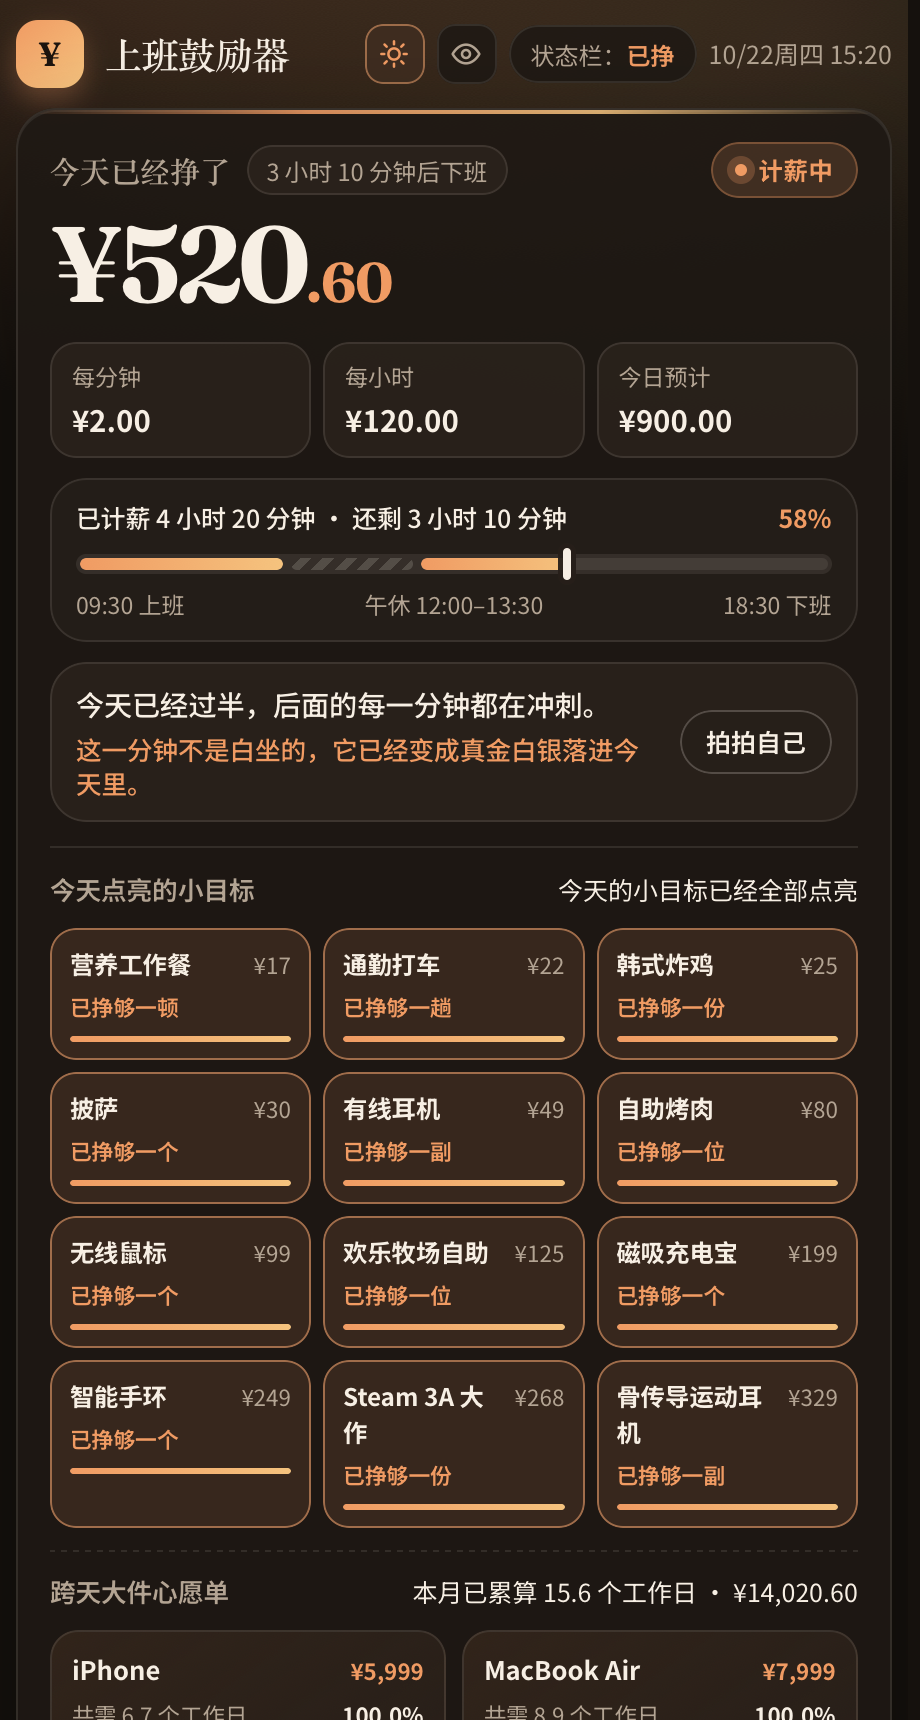
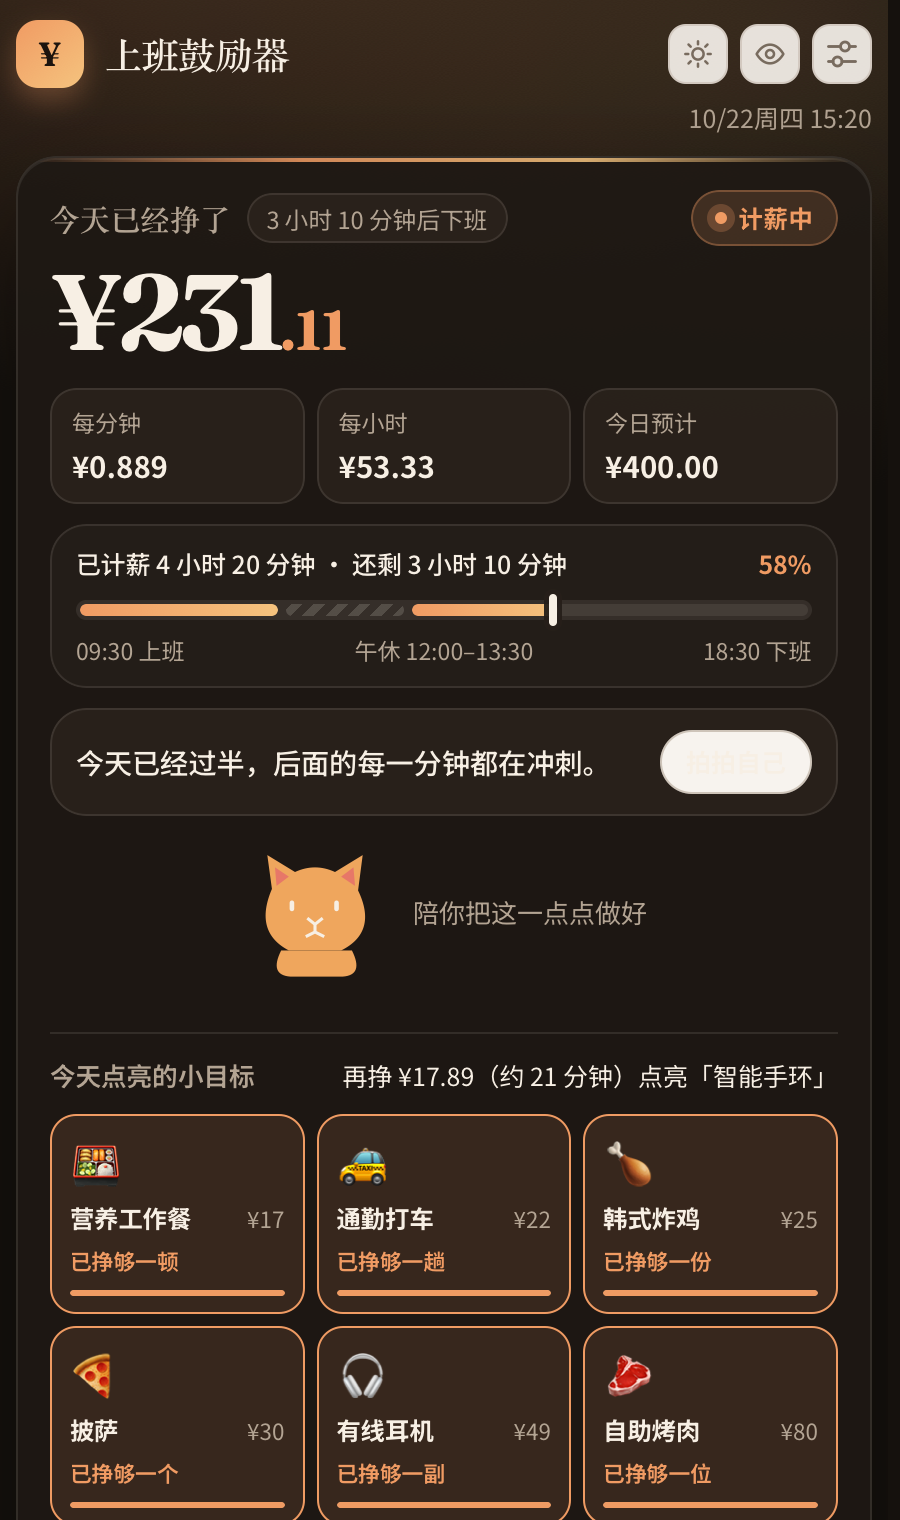
docs: publish 1.3.0 release notes and refresh GitHub Pages

diff --git a/docs/index.html b/docs/index.html
@@ -5,7 +5,7 @@
     <meta name="viewport" content="width=device-width, initial-scale=1, viewport-fit=cover" />
     <meta
       name="description"
-      content="上班鼓励器（Work Encourager）——常驻 macOS 顶部状态栏的实时计薪与目标激励工具，把每个工作日的每一分钟折算成看得见的进账。"
+      content="上班鼓励器 v1.3.0：macOS 实时计薪、个性化目标、调休日历、提醒中心与迷你悬浮窗。支持 Apple Silicon 和 Intel，个人数据保存在本机。"
     />
     <title>上班鼓励器 · Work Encourager — macOS 顶部状态栏实时计薪与目标激励工具</title>
     <link rel="icon" href="./assets/icon.png" />
@@ -721,6 +721,14 @@
           grid-template-columns: 1fr;
         }
       }
+      .release-note-link { margin:18px 0 0; color:var(--muted); font-size:.84rem; }
+      .release-note-link a { text-decoration:underline; text-underline-offset:4px; }
+      .settings-showcase { align-items:center; }
+      .settings-showcase h2 { font-family:Fraunces,"Songti SC",serif; font-size:clamp(1.4rem,3vw,2rem); line-height:1.35; }
+      .settings-showcase .settings-footnote, .panel .settings-footnote { margin-top:18px; font-size:.83rem; }
+      .settings-image-link { display:block; max-width:360px; width:100%; margin:auto; }
+      .settings-image-link img { display:block; width:100%; border:1px solid var(--line-strong); border-radius:22px; box-shadow:var(--shadow); }
+      @media(prefers-reduced-motion:reduce) { html {scroll-behavior:auto;} .btn {transition:none;} }
     </style>
   </head>
   <body>
@@ -732,7 +740,7 @@
         </a>
         <nav class="nav-links">
           <a href="#gallery">界面预览</a>
-          <a href="#features">核心特性</a>
+          <a href="#features">1.3.0 新功能</a>
           <a href="#formula">计薪逻辑</a>
           <a href="#install">安装与构建</a>
         </nav>
@@ -742,7 +750,7 @@
           </button>
           <a
             class="btn btn-primary btn-sm"
-            href="https://github.com/caseclose/work-encourager-open/releases/latest/download/WorkEncourager-macOS-universal-v1.0.0.dmg"
+            href="https://github.com/caseclose/work-encourager-open/releases/download/v1.3.0/WorkEncourager-macOS-universal-v1.3.0.dmg"
           >
             下载 .dmg
           </a>
@@ -750,7 +758,7 @@
       </div>
       <nav class="mobile-subnav" aria-label="章节导航">
         <a href="#gallery">界面预览</a>
-        <a href="#features">核心特性</a>
+        <a href="#features">新功能</a>
         <a href="#formula">计薪逻辑</a>
         <a href="#install">安装指南</a>
       </nav>
@@ -758,22 +766,22 @@
 
     <main class="container">
       <section class="hero">
-        <span class="badge">v1.0.0 · 原生 macOS 状态栏应用 · Apple Silicon &amp; Intel</span>
+        <span class="badge">v1.3.0 · macOS 13+ · Apple Silicon &amp; Intel</span>
         <h1>把漫长的工作日，拆成每一分钟看得见的进账。</h1>
         <p class="hero-sub">
-          上班鼓励器（Work Encourager）是一款常驻 Mac 屏幕顶部菜单栏的轻量级计薪与目标激励工具。支持扣除午休与晚饭时段、12
-          宫格日常消费折算、跨天大件心愿单，以及专为办公室工位打造的三层薪资隐私保护。
+          上班鼓励器（Work Encourager）把工时变成实时进账，也把努力变成自己的小目标。
+          1.3.0 新增目标封面与排序、调休日历、提醒中心和迷你悬浮窗；所有偏好，都能在设置里调整。
         </p>
         <div class="hero-ctas">
           <a
             class="btn btn-primary"
-            href="https://github.com/caseclose/work-encourager-open/releases/latest/download/WorkEncourager-macOS-universal-v1.0.0.dmg"
+            href="https://github.com/caseclose/work-encourager-open/releases/download/v1.3.0/WorkEncourager-macOS-universal-v1.3.0.dmg"
           >
             下载 macOS 安装包 (.dmg)
           </a>
           <a
             class="btn"
-            href="https://github.com/caseclose/work-encourager-open/releases/latest/download/WorkEncourager-macOS-universal-v1.0.0.zip"
+            href="https://github.com/caseclose/work-encourager-open/releases/download/v1.3.0/WorkEncourager-macOS-universal-v1.3.0.zip"
           >
             下载压缩包 (.zip)
           </a>
@@ -782,6 +790,7 @@
           </a>
         </div>
 
+        <p class="release-note-link"><a href="https://github.com/caseclose/work-encourager-open/releases/tag/v1.3.0">查看 1.3.0 完整更新说明 ↗</a> · <a href="https://github.com/caseclose/work-encourager-open/releases/download/v1.3.0/SHA256SUMS.txt">下载校验文件</a></p>
         <div class="menubar-demo" aria-label="macOS 顶部状态栏效果演示">
           <div class="mac-topbar">
             <div class="mac-left">
@@ -808,6 +817,11 @@
               <button type="button" class="mode-tab" data-text="已挣 ¥520.60" aria-selected="true">已挣模式</button>
               <button type="button" class="mode-tab" data-text="剩余 ¥379.40" aria-selected="false">剩余模式</button>
               <button type="button" class="mode-tab" data-text="¥520.60" aria-selected="false">仅金额</button>
+              <button type="button" class="mode-tab" data-text="1时20分下班" aria-selected="false">下班倒计时</button>
+              <button type="button" class="mode-tab" data-text="今日 68%" aria-selected="false">今日进度</button>
+              <button type="button" class="mode-tab" data-text="🎧 耳机 72%" aria-selected="false">目标进度</button>
+              <button type="button" class="mode-tab" data-text="🎧 还需46分" aria-selected="false">目标所需工时</button>
+              <button type="button" class="mode-tab" data-text="午休中" aria-selected="false">随状态切换</button>
               <button type="button" class="mode-tab" data-text="已挣 ¥***" aria-selected="false">小眼睛隐私打码</button>
             </div>
           </div>
@@ -817,7 +831,7 @@
       <section id="gallery">
         <div class="section-head">
           <h2>实机渲染预览</h2>
-          <p>支持深色模式、浅色模式与一键全局隐私打码，点击菜单栏图标即可呼出完整面板。</p>
+          <p>以下为 1.3.0 的真实渲染截图，使用虚拟演示薪资与固定时间；支持深色、浅色和金额打码。</p>
         </div>
         <div class="gallery-tabs" role="tablist" aria-label="切换预览截图">
           <button type="button" class="gallery-tab" data-shot="0" aria-selected="true">深色模式</button>
@@ -850,41 +864,23 @@
       </section>
 
       <section id="features">
-        <div class="section-head">
-          <h2>为打工人设计的细节</h2>
-          <p>零第三方依赖、安装包仅 1 MB，兼顾情绪价值与工位隐私。</p>
-        </div>
+        <div class="section-head"><h2>1.3.0，新功能都在设置里</h2><p>从自己的小目标，到每天的工作节奏，让鼓励器更贴近你的习惯。</p></div>
         <div class="features">
-          <div class="feat">
-            <span class="feat-tag">macOS Native</span>
-            <h3>常驻顶部状态栏</h3>
-            <p>基于 Swift + AppKit + WebKit 原生构建，不占程序坞（Dock）位置，后台每秒刷新状态栏标题。</p>
-          </div>
-          <div class="feat">
-            <span class="feat-tag">Timeline</span>
-            <h3>扣除午休与晚饭时段</h3>
-            <p>支持分别配置午休与晚饭起止时间。休息期间金额自动停表，全天分段时间轴一目了然。</p>
-          </div>
-          <div class="feat">
-            <span class="feat-tag">12 Milestones</span>
-            <h3>12 宫格日常消费折算</h3>
-            <p>把抽象工时折算成工作餐、通勤打车、韩式炸鸡、披萨、有线耳机、自助烤肉、智能手环、Steam 3A 大作与骨传导耳机。</p>
-          </div>
-          <div class="feat">
-            <span class="feat-tag">Big Wishlist</span>
-            <h3>跨天大件心愿单</h3>
-            <p>结合本月已累算工作日与今日实时进账，动态折算 iPhone、MacBook Air 等大件共需几天、还差几天。</p>
-          </div>
-          <div class="feat">
-            <span class="feat-tag">3-Layer Privacy</span>
-            <h3>三层工位隐私保护</h3>
-            <p>班表默认折叠隐藏薪资 + 右上角小眼睛一键全局打码 + 100% 纯本机存储，绝不上传任何数据。</p>
-          </div>
-          <div class="feat">
-            <span class="feat-tag">Micro Cheer</span>
-            <h3>「拍拍自己」即时打气</h3>
-            <p>自动提示距离午休、晚饭或下班还有多久；点一下「拍拍自己」切换暖心文案并浮现每分钟进账反馈。</p>
-          </div>
+          <article class="feat"><span class="feat-tag">Personal Goals</span><h3>每个目标，都有自己的样子</h3><p>添加、修改或删除目标，为它选择 Emoji、颜色与本地图片封面。置顶、拖拽或上下移动，按你的顺序展示。</p></article>
+          <article class="feat"><span class="feat-tag">Celebration</span><h3>点亮目标，轻轻庆祝</h3><p>轻量动画、系统通知或静默，随你选择。每日小目标与每月心愿分别去重，重新打开不会重复庆祝。</p></article>
+          <article class="feat"><span class="feat-tag">Calendar</span><h3>班表也能灵活调整</h3><p>按日期手动标记放假、补班、提前下班与当天休息时段。计薪、倒计时、时间轴随当天安排一起变化。</p></article>
+          <article class="feat"><span class="feat-tag">Menu Bar</span><h3>菜单栏，八种显示方式</h3><p>收入、剩余金额、下班倒计时、今日进度、目标进度与所需工时，还能随工作状态自动切换。</p></article>
+          <article class="feat"><span class="feat-tag">Reminders</span><h3>到点休息，也记得下班</h3><p>午休、晚饭、下班与定时活动提醒集中管理。设置允许提醒时间和跨午夜免打扰，通知不显示薪资金额。</p></article>
+          <article class="feat"><span class="feat-tag">Mini Window</span><h3>把小小进度放在手边</h3><p>可拖动的原生迷你悬浮窗，支持置顶和透明度调整。显示收入、下班倒计时或置顶目标的进度。</p></article>
+          <article class="feat"><span class="feat-tag">Native Comfort</span><h3>更顺手的原生操作</h3><p>开机自动启动、⌘⇧E / ⌃⌥E 全局快捷键、记住上次页面，以及手动检查 GitHub 正式版本。</p></article>
+          <article class="feat"><span class="feat-tag">Local Backup</span><h3>你的设置，随时带走</h3><p>完整 JSON 备份保留薪资、班表与偏好；仅目标备份不含薪资。导入先检查、再确认替换。</p></article>
+          <article class="feat"><span class="feat-tag">Companion</span><h3>橘猫和小芽，陪你一会儿</h3><p>可选动态伙伴，随着工作、休息、下班改变状态。点一下，给自己一句鼓励；也可以随时关闭。</p></article>
+        </div>
+      </section>
+      <section id="settings-preview">
+        <div class="split settings-showcase">
+          <div class="panel"><span class="feat-tag">One Settings Page</span><h2>把想调整的，都放在同一个地方。</h2><p>点击面板右上角的滑杆图标，进入设置。主题、隐私、目标、日历、提醒、悬浮窗、启动方式与备份都有清晰的分组。</p><ul class="steps"><li>保留深色、浅色、跟随系统与一键金额打码。</li><li>目标和单日班表点击保存生效，其余偏好即时保存。</li><li>原有设置继续保留，无需重新填写薪资和目标。</li><li>“关于”包含版本、项目链接和贡献者 Feng Wang · @caseclose。</li></ul><p class="settings-footnote">通知、开机启动和快捷键按需开启；系统权限以 macOS 实际授权状态为准。网页中不可用的原生选项会禁用。</p><a class="btn" href="https://github.com/caseclose/work-encourager-open/releases/tag/v1.3.0">阅读更新说明 ↗</a></div>
+          <a class="settings-image-link" href="./assets/preview-settings.png" aria-label="查看 1.3.0 设置页完整截图"><img src="./assets/preview-settings.png" alt="1.3.0 原生设置页：悬浮窗、陪伴伙伴、开机启动和快捷键" loading="lazy" /></a>
         </div>
       </section>
 
@@ -892,27 +888,26 @@
         <div class="split">
           <div class="panel">
             <h3>透明的计薪与折算逻辑</h3>
-            <p>只按你真正付出的计薪时间拆解每一分钟的价值，休息时间不稀释单价，但休息期间暂停累加：</p>
+            <p>按你设置的班表估算进度，午休、晚饭期间暂停累加。单日临时班表仍按固定日薪折算，短班改变当天计薪速度：</p>
             <pre><code>每天计薪分钟 = (下班 − 上班) − 午休时长 − 晚饭时长
 每日预计收入 = 月薪 ÷ 每月工作日
 每分钟收入   = 每日预计收入 ÷ 每天计薪分钟
-今天已挣金额 = 每分钟收入 × 今天已计薪分钟（精确到秒）</code></pre>
+今天已挣金额 = 每分钟收入 × 今天已计薪分钟（精确到秒）</code></pre><p class="settings-footnote">大件心愿是本月收入的等价进度，并非实际储蓄余额。个人薪资、班表、目标与封面保存在本机；手动检查更新仅请求 GitHub 版本信息。</p>
           </div>
 
           <div class="panel" id="install">
             <h3>安装与源码构建</h3>
             <ol class="steps">
               <li>
-                <strong>免编译直接安装</strong>：下载
+                <strong>macOS 13 或更新版本</strong>：Apple Silicon 与 Intel 共用一个安装包。下载
                 <a
-                  href="https://github.com/caseclose/work-encourager-open/releases/latest/download/WorkEncourager-macOS-universal-v1.0.0.dmg"
+                  href="https://github.com/caseclose/work-encourager-open/releases/download/v1.3.0/WorkEncourager-macOS-universal-v1.3.0.dmg"
                   style="color: var(--accent); font-weight: 600"
                   >Universal .dmg 安装包</a
                 >，将 <code>上班鼓励器.app</code> 拖入 <code>Applications</code>。
               </li>
               <li>
-                <strong>首次打开提示</strong>：若遇到 macOS 未签名提示，在终端运行一次：<br />
-                <code>xattr -cr /Applications/上班鼓励器.app</code>
+                <strong>首次打开提示</strong>：此版本采用本地签名，尚未经过 Apple 公证。确认从本仓库下载后，可在 macOS「系统设置 → 隐私与安全性」中允许打开。
               </li>
               <li><strong>从源码一键编译启动</strong>：</li>
             </ol>
@@ -926,10 +921,10 @@ npm run start:mac</code></pre>
 
     <footer>
       <div class="container">
-        上班鼓励器 · Work Encourager ·
+        上班鼓励器 · Work Encourager · v1.3.0 ·
         <a href="https://github.com/caseclose/work-encourager-open" style="color: var(--accent)">GitHub 开源仓库</a>
-        ·
-        <a href="https://github.com/caseclose/work-encourager-open/releases/latest" style="color: var(--accent)">下载 macOS Release</a>
+        · 贡献者 <a href="https://github.com/caseclose">Feng Wang · @caseclose</a> ·
+        <a href="https://github.com/caseclose/work-encourager-open/releases/tag/v1.3.0" style="color: var(--accent)">下载 macOS Release</a>
       </div>
     </footer>
 

diff --git a/CHANGELOG.md b/CHANGELOG.md
@@ -1,0 +1,53 @@
+# 更新记录
+
+## 1.3.0 · 2026-10-22
+
+上班鼓励器 1.3.0 把目标、日历、提醒与原生窗口操作集中到右上角的「设置」中，让每个工作日更贴近自己的节奏。
+
+## 新功能
+
+- **目标个性化**：新增、修改、删除今日小目标和大件心愿；支持 Emoji、自定义颜色、本地图片封面、置顶、拖拽及上下排序。每类最多 30 项，图片在本机压缩保存。
+- **达成庆祝**：轻量动画、系统通知、静默三种方式；每日小目标与每月大件心愿分别去重。首次打开、导入已完成目标或修改价格不会集中弹出庆祝。
+- **日历与临时班表**：按日期手动设置放假、补班、提前下班，以及当天午休和晚饭。计薪、倒计时、时间轴与月度累计同步使用有效班表。
+- **八种菜单栏模式**：已挣、剩余、仅金额、下班倒计时、今日进度、目标进度、距目标所需计薪时长、随工作状态自动切换。
+- **提醒中心**：午休、晚饭、下班与定时活动提醒；支持允许提醒时段、跨午夜免打扰，通知不包含薪资或金额。
+- **迷你悬浮窗**：可拖动、置顶、调整不透明度，显示今日收入、下班倒计时或目标进度；保存窗口位置和偏好。
+- **原生便利功能**：开机自动启动、全局快捷键（⌘⇧E / ⌃⌥E）、记住上次页面、手动检查 GitHub 正式版。更新接口限流时使用公开发布页查询。
+- **备份与恢复**：完整 JSON 备份包含薪资、班表、目标和偏好；“仅导出目标”不含薪资。导入先校验并展示替换范围，确认后生效；不会更改系统权限、登录项或快捷键。
+- **陪伴伙伴**：可选橘猫或小芽，随计薪、休息、下班切换动态状态；点击伙伴获得一句鼓励，可随时关闭。
+
+## 界面与可靠性
+
+- 统一设置入口，支持主题、金额隐私、面板显示、目标、班表和关于；关于页新增贡献者 **Feng Wang · @caseclose**。
+- 修复菜单栏弹窗标题区域溢出、WebKit 中主题图标不显示的问题；设置页适配 320px 与 450px 窄窗口。
+- 兼容旧目标数据；导入校验目标封面、金额、日期和班表冲突，存储失败时回滚并显示真实状态。
+- 调整薪资或班表后重新建立提醒与庆祝基线，避免把重新计算误当作新事件。
+- GitHub Pages 官网同步更新版本、下载入口、功能介绍与使用虚拟数据生成的 1.3.0 截图。
+
+## 下载与安装
+
+需要 **macOS 13 或更新版本**。两个安装包均为 **Universal**，同时包含 **Apple Silicon（arm64）与 Intel（x86_64）**。
+
+- `WorkEncourager-macOS-universal-v1.3.0.dmg`：打开后将「上班鼓励器.app」拖入 Applications。
+- `WorkEncourager-macOS-universal-v1.3.0.zip`：解压后得到同一应用。
+- `SHA256SUMS.txt`：安装包 SHA256 校验值。
+
+升级前退出旧应用，再替换原安装位置的 `.app`。已有本机设置会继续沿用。完整备份是可读 JSON 文件，请自行保管。
+
+此版本采用本地签名，**尚未经过 Apple 公证**。确认从本仓库下载后，如 macOS 阻止首次打开，可在「系统设置 → 隐私与安全性」中允许打开。
+
+## 使用说明
+
+- 通知与开机启动按需开启，以 macOS 实际授权状态为准。
+- 定时提醒在应用运行期间生效，不补发错过的提醒；节假日与调休需要手动标记。
+- 临时短班仍按固定日薪折算，改变的是当天计薪速度。大件心愿展示本月收入等价进度，不代表实际储蓄余额。
+- 个人薪资、班表、目标和封面保存在本机；手动检查更新只请求 GitHub 版本信息。
+
+## 验证
+
+- 73 项自动测试通过。
+- 21 项原生桥联动检查，以及悬浮窗显示、置顶、透明度和关闭状态检查通过。
+- 未设置日期覆盖时，19,746 个计薪快照与原逻辑一致。
+- 发布包已核对版本 **1.3.0 / Build 5**、双架构、签名、14 个网页资源及 DMG / ZIP 内应用一致性；未进行 Intel 硬件实机运行测试。
+
+[项目官网](https://caseclose.github.io/work-encourager-open/) · [完整变更](https://github.com/caseclose/work-encourager-open/compare/v1.0.0...v1.3.0)

diff --git a/README.md b/README.md
@@ -42,7 +42,7 @@
 - **真实计薪时长折算**：支持分别勾选并扣除**午休时段**与**晚饭时段**，休息期间金额自动停表，休息结束后从已累计金额无缝续算。
 - **分段式今日时间轴**：将全天班表拆分为「计薪段」与「斜纹休息段」，游标实时指示当前所处位置，并自动倒计时提示距离下一顿饭或下班还有多久。
 
-### 3. 双层激励体系：今日 12 宫格小目标 + 跨天大件心愿单
+### 3. 双层激励体系：自定义今日小目标 + 跨天大件心愿单
 - **今日点亮的小目标**：将单日收入具象化为日常美食与数码单品（工作餐、通勤打车、炸鸡、披萨、有线耳机、自助烤肉、无线鼠标、磁吸充电宝、智能手环、Steam 3A 大作、骨传导耳机等），实时展示解锁进度与还差多少分钟。
 - **跨天大件心愿单**：结合本月已累算工作日与今日实时进账，动态折算 **iPhone**、**MacBook Air** 等跨天大件所需的总工作天数、已攒百分比与剩余天数。
 - **「拍拍自己」即时打气**：点击按钮随机切换暖心鼓励文案，并浮现每分钟进账速率微动效。
@@ -74,10 +74,10 @@
 
 前往 [**GitHub Releases**](https://github.com/caseclose/work-encourager-open/releases/latest) 下载最新版本的安装包：
 
-- **`WorkEncourager-macOS-universal-v1.0.0.dmg`**：双击挂载后将 `上班鼓励器.app` 拖入 `Applications` 即可。
-- **`WorkEncourager-macOS-universal-v1.0.0.zip`**：解压后直接双击运行 `上班鼓励器.app`。
+- **`WorkEncourager-macOS-universal-v1.3.0.dmg`**：双击挂载后将 `上班鼓励器.app` 拖入 `Applications` 即可。
+- **`WorkEncourager-macOS-universal-v1.3.0.zip`**：解压后直接双击运行 `上班鼓励器.app`。
 
-> 若首次打开提示未签名开发者限制，可在终端执行一次 `xattr -cr /Applications/上班鼓励器.app` 或在「系统设置 → 隐私与安全性」中点击「仍要打开」。
+> 需要 macOS 13 或更新版本，安装包同时支持 Apple Silicon 与 Intel。此版本采用本地签名，尚未经过 Apple 公证；确认从本仓库下载后，可在「系统设置 → 隐私与安全性」中允许打开。Release 同时提供 SHA256 校验文件。
 
 ### 方式二：从源码编译并运行 macOS 顶部状态栏应用
 
@@ -125,6 +125,10 @@ npm start
 ```
 
 ## 1.3.0 设置与使用
+
+[下载 v1.3.0 与阅读完整更新说明](https://github.com/caseclose/work-encourager-open/releases/tag/v1.3.0)
+
+<img src="./assets/preview-settings.png" width="360" alt="1.3.0 设置页，包含悬浮窗、伙伴与原生操作" />
 
 点击面板右上角的滑杆图标进入「设置」，左上角返回主面板。原有数据会继续保留。
 
